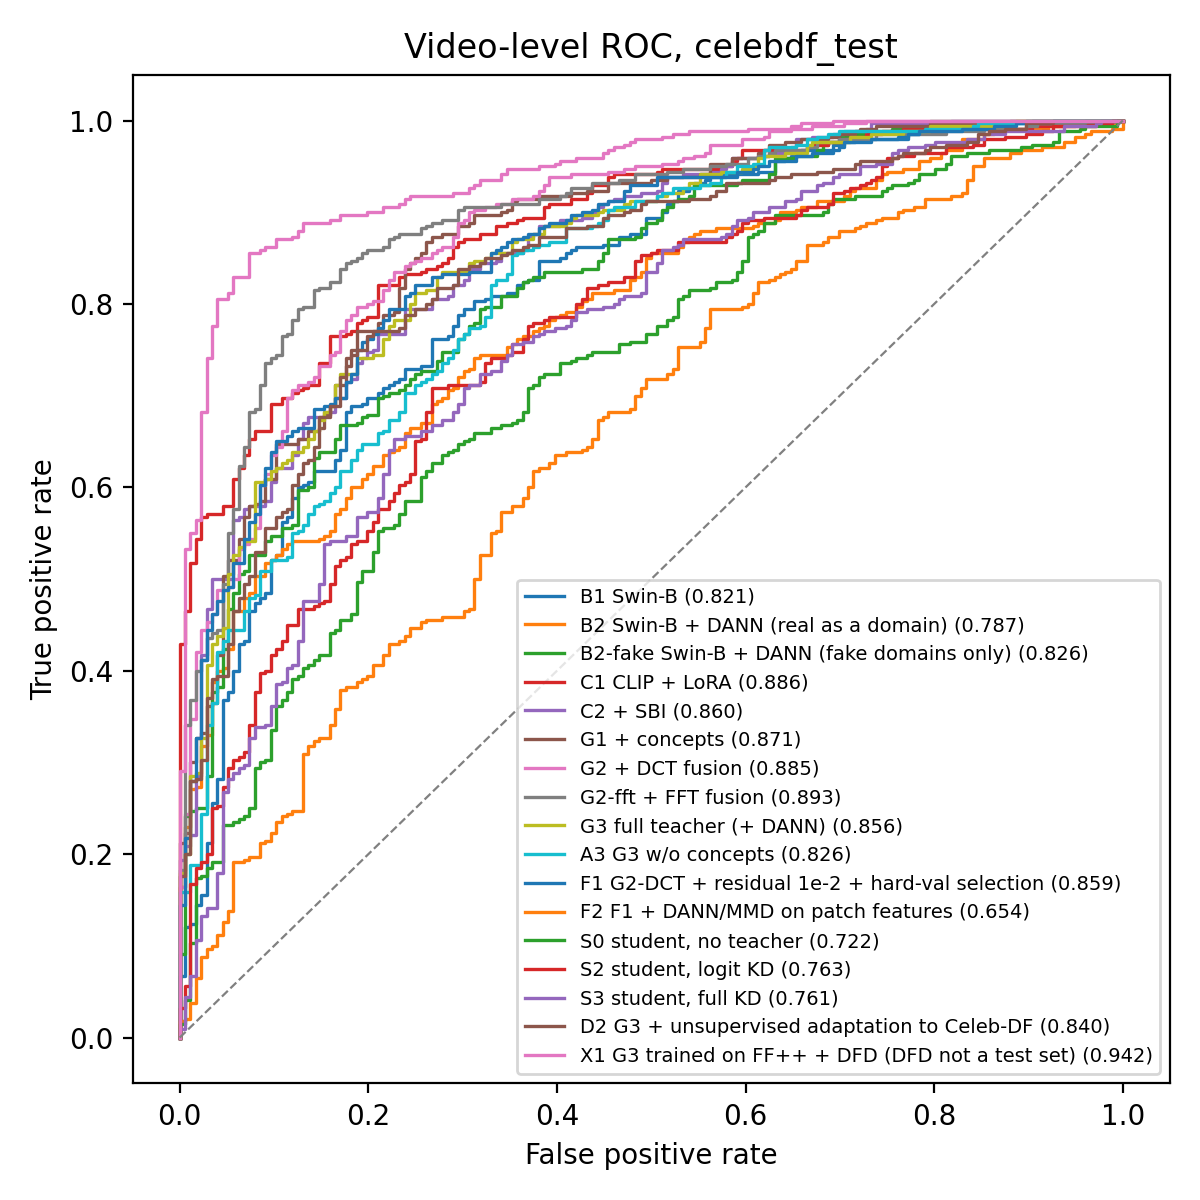
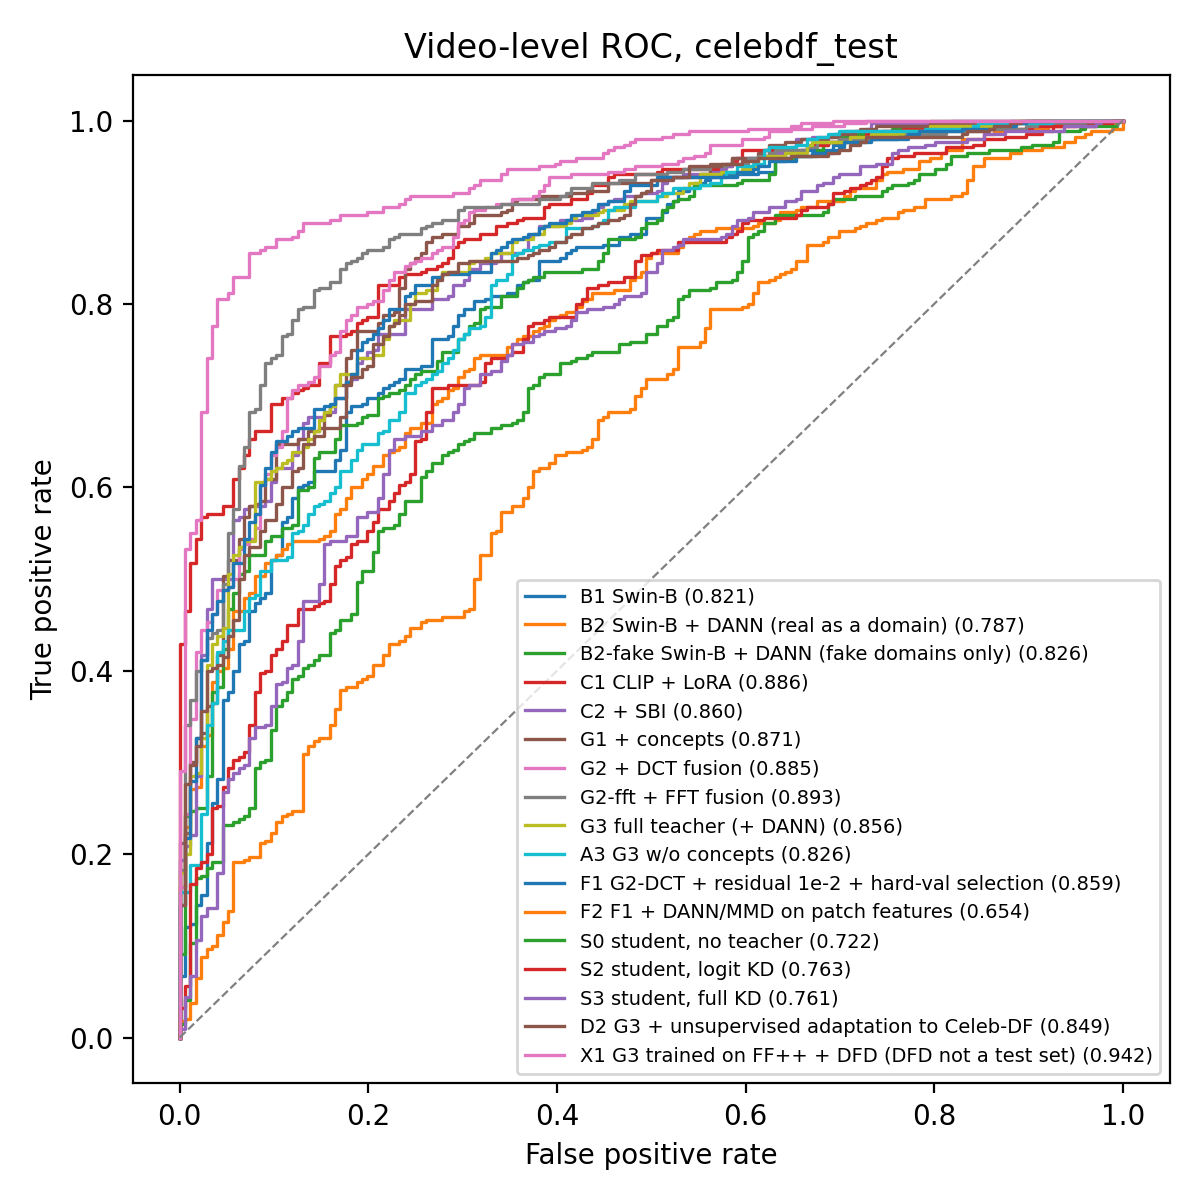
Final results v7: D2 retrained on a clean pool; all tables on the official Celeb-DF list

diff --git a/results/tables.md b/results/tables.md
@@ -21,7 +21,7 @@ Generated by `scripts/make_tables.py` from the run folders and `results/*.csv`. 
 | S0 student, no teacher | 0.984 ± 0.004 | 0.867 ± 0.022 | 0.751 ± 0.022 | 0.809 ± 0.021 |
 | S2 student, logit KD | 0.984 ± 0.006 | 0.859 ± 0.008 | 0.752 ± 0.010 | 0.806 ± 0.009 |
 | S3 student, full KD | 0.978 ± 0.005 | 0.844 ± 0.011 | 0.765 ± 0.020 | 0.804 ± 0.006 |
-| D2 G3 + unsupervised adaptation to Celeb-DF | 0.999 ± 0.001 | 0.951 ± 0.002 | 0.829 ± 0.013 | 0.890 ± 0.006 |
+| D2 G3 + unsupervised adaptation to Celeb-DF | 0.999 ± 0.000 | 0.955 ± 0.003 | 0.832 ± 0.019 | 0.893 ± 0.011 |
 | X1 G3 trained on FF++ + DFD (DFD not a test set) | 0.998 ± 0.001 | – | 0.944 ± 0.004 | – |
 
 ### Frame AUC
@@ -43,7 +43,7 @@ Generated by `scripts/make_tables.py` from the run folders and `results/*.csv`. 
 | S0 student, no teacher | 0.963 ± 0.002 | 0.821 ± 0.014 | 0.687 ± 0.017 | 0.754 ± 0.015 |
 | S2 student, logit KD | 0.963 ± 0.001 | 0.826 ± 0.005 | 0.679 ± 0.005 | 0.753 ± 0.005 |
 | S3 student, full KD | 0.960 ± 0.006 | 0.820 ± 0.007 | 0.693 ± 0.014 | 0.757 ± 0.004 |
-| D2 G3 + unsupervised adaptation to Celeb-DF | 0.985 ± 0.003 | 0.894 ± 0.001 | 0.733 ± 0.019 | 0.813 ± 0.010 |
+| D2 G3 + unsupervised adaptation to Celeb-DF | 0.986 ± 0.002 | 0.898 ± 0.001 | 0.739 ± 0.015 | 0.819 ± 0.008 |
 | X1 G3 trained on FF++ + DFD (DFD not a test set) | 0.986 ± 0.004 | – | 0.855 ± 0.005 | – |
 
 ## 2. Ablation (each row changes one thing from the row above)
